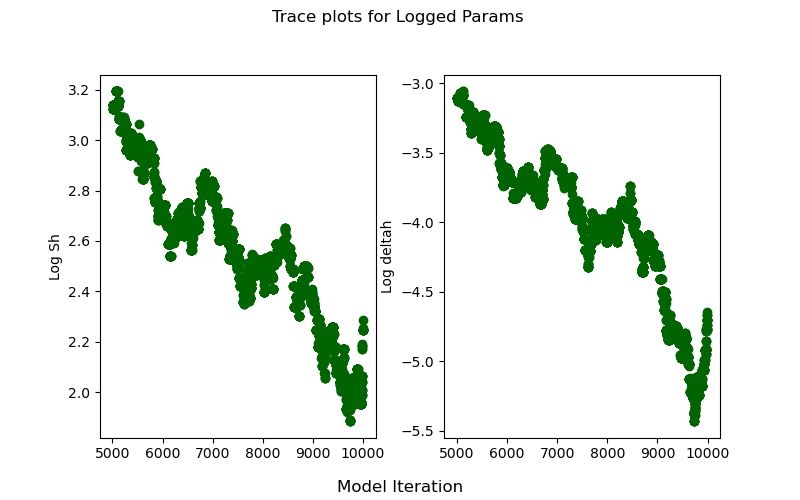
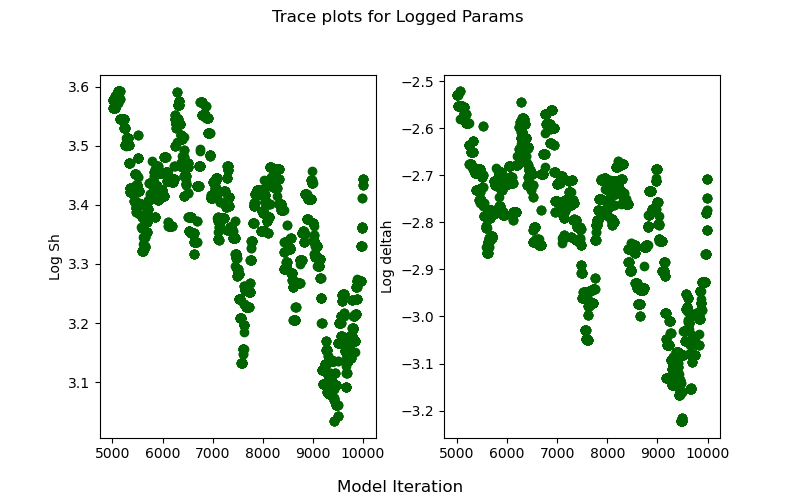
inits

diff --git a/src/model_spiked_abiotic_batch.py b/src/model_spiked_abiotic_batch.py
@@ -145,7 +145,7 @@ snames = ['H']
 pw = 1
 
 #setting param prior guesses and inititaing as an odelib param class in odelib
-deltah_prior=ODElib.parameter(stats_gen=scipy.stats.lognorm,hyperparameters={'s':pw,'scale':0.2})
+deltah_prior=ODElib.parameter(stats_gen=scipy.stats.lognorm,hyperparameters={'s':pw,'scale':0.02})
 Sh_prior=ODElib.parameter(stats_gen=scipy.stats.lognorm, hyperparameters={'s':pw,'scale':2})
 #setting state variiable  prior guess
 H0_prior=ODElib.parameter(stats_gen=scipy.stats.lognorm, hyperparameters={'s':pw,'scale':300})
@@ -190,7 +190,7 @@ c4 = 'darkviolet'
 
 # Set up graph for Dynamics and param histograms
 
-fig1,ax1 = plt.subplots(1,3,figsize=[10,7]) #plot creation and config 
+fig1,ax1 = plt.subplots(1,3,figsize=[8,5]) #plot creation and config 
 #set titles of subplots
 fig1.suptitle('Abiotic HOOH Model Output') #full title config
 fig1.subplots_adjust(right=0.90, wspace = 0.25, hspace = 0.30) #shift white space for better fig view
@@ -198,7 +198,7 @@ ax1[0].set_title('400 H Model-Data Dynamics')
 fig1.supylabel('HOOH Concentration nM/mL')
 ax1[1].set_title('Sh')
 ax1[2].set_title('deltah')
-ax1[1].text(3.5, -15, 'Frequency')
+ax1[1].text(3.3, -130, 'Frequency')
 
 
 fig1.subplots_adjust(right=0.90, wspace = 0.25, hspace = 0.30) #shift white space for better fig view
